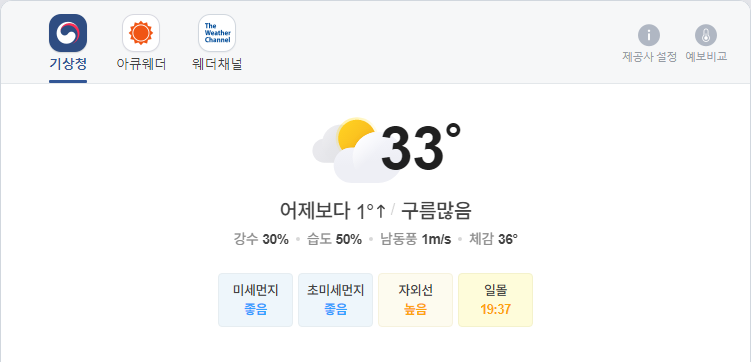
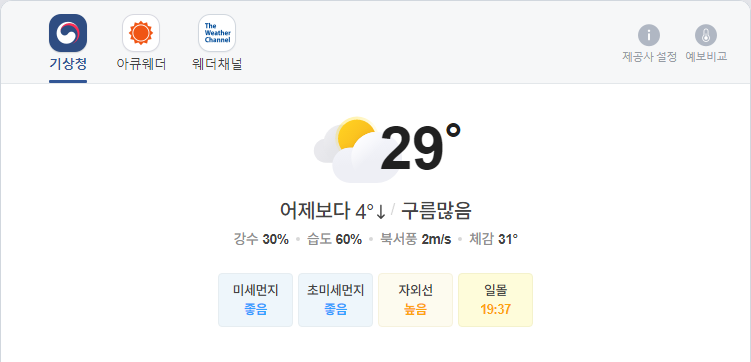
update result

diff --git a/README.md b/README.md
@@ -1,5 +1,5 @@
-##  2021-08-06 12:08:11   금요일 
-##### 날씨   -   어제보다 1° 높아요구름많음  
+##  2021-08-06 16:03:48   금요일 
+##### 날씨   -   어제보다 4° 낮아요구름많음  
 <center><img src="../img/naver_weather_week.png"></center>
 ----
 ----
@@ -16,14 +16,14 @@
 <tr align = "right" > <td>DOW</td><td>35,064.25</td><td>271.58</td><td><font size="3" color="red" >0.78%</font></td><td><font size="3" color="black">0</font></td><td><font size="3" color="black">0</font></td><td>0</td>  </tr>
 <tr align = "right" > <td>NASDAQ</td><td>14,895.12</td><td>114.59</td><td><font size="3" color="red" >0.78%</font></td><td><font size="3" color="black">0</font></td><td><font size="3" color="black">0</font></td><td>0</td>  </tr>
 <tr align = "right" > <td>S&P</td><td>4,429.1</td><td>26.44</td><td><font size="3" color="red" >0.6%</font></td><td><font size="3" color="black">0</font></td><td><font size="3" color="black">0</font></td><td>0</td>  </tr>
-<tr align = "right" > <td>SHANHAI</td><td>3,450.5</td><td>-16.05</td><td><font size="3" color="blue" >-0.46%</font></td><td><font size="3" color="black">0</font></td><td><font size="3" color="black">0</font></td><td>0</td>  </tr>
-<tr align = "right" > <td>INDIA</td><td>54,492.84</td><td>123.07</td><td><font size="3" color="red" >0.23%</font></td><td><font size="3" color="black">0</font></td><td><font size="3" color="black">0</font></td><td>0</td>  </tr>
+<tr align = "right" > <td>SHANHAI</td><td>3,455.83</td><td>-10.72</td><td><font size="3" color="blue" >-0.31%</font></td><td><font size="3" color="black">0</font></td><td><font size="3" color="black">0</font></td><td>0</td>  </tr>
+<tr align = "right" > <td>INDIA</td><td>54,374.33</td><td>-118.51</td><td><font size="3" color="blue" >-0.22%</font></td><td><font size="3" color="black">0</font></td><td><font size="3" color="black">0</font></td><td>0</td>  </tr>
 </table>
 ----
 ##### 시장
 <table border="1" bordercolor="blue" align = "center" >
 <tr align = "right" > <td>Item</td><td>Price</td><td>Diff</td><td>Rate</td><td>Buy</td><td>Sell</td><td>...</td>  </tr>
-<tr align = "right" > <td>USD</td><td>1,143.0</td><td>-0.4</td><td><font size="3" color="blue">-0.03%</font></td><td><font size="3" color="black">1,110</font></td><td><font size="3" color="black">0</font></td><td>0</td>  </tr>
+<tr align = "right" > <td>USD</td><td>1,143.0</td><td>-0.5</td><td><font size="3" color="blue">-0.04%</font></td><td><font size="3" color="black">1,110</font></td><td><font size="3" color="black">0</font></td><td>0</td>  </tr>
 <tr align = "right" > <td>WTI</td><td>69.09</td><td>0.94</td><td><font size="3" color="red">1.37%</font></td><td><font size="3" color="black">29.0</font></td><td><font size="3" color="black">0</font></td><td>0</td>  </tr>
 <tr align = "right" > <td>GOLD</td><td>1,805.0</td><td>-5.4</td><td><font size="3" color="blue">-0.29%</font></td><td><font size="3" color="black">0</font></td><td><font size="3" color="black">0</font></td><td>0</td>  </tr>
 </table>
@@ -31,32 +31,32 @@
 ##### 주가
 <table border="1" bordercolor="blue" align = "center" >
 <tr align = "right" > <td>Item</td><td>Price</td><td>Diff</td><td>Rate</td><td>Purchased</td><td>Sell</td><td>Buy</td>  </tr>
-<tr align = "right" > <td>한국 전력</td><td>25,400</td><td>100</td><td><font size="3" color="red">0.4%</font></td><td>25,720</td><td><font size="3" color="black">27,700</font></td><td><font size="3" color="black">20,700</font></td>  </tr>
-<tr align = "right" > <td>삼성엔지니어.</td><td>23,700</td><td>450</td><td><font size="3" color="red">1.94%</font></td><td>18,935</td><td><font size="3" color="black">20,000</font></td><td><font size="3" color="black">8,000</font></td>  </tr>
-<tr align = "right" > <td>CJ CGV</td><td>30,250</td><td>-150</td><td><font size="3" color="blue">-0.49%</font></td><td>34,895</td><td><font size="3" color="black">36,000</font></td><td><font size="3" color="black">0</font></td>  </tr>
-<tr align = "right" > <td>아모레퍼시픽</td><td>229,500</td><td>-2,500</td><td><font size="3" color="blue">-1.08%</font></td><td>235,350</td><td><font size="3" color="black">240,000</font></td><td><font size="3" color="black">130,000</font></td>  </tr>
-<tr align = "right" > <td>한화</td><td>30,600</td><td>250</td><td><font size="3" color="red">0.82%</font></td><td>25,550</td><td><font size="3" color="black">26,250</font></td><td><font size="3" color="black">26,250</font></td>  </tr>
-<tr align = "right" > <td>NAVER</td><td>443,500</td><td>1,000</td><td><font size="3" color="red">0.23%</font></td><td>147,200</td><td><font size="3" color="black">386,000</font></td><td><font size="3" color="black">286,000</font></td>  </tr>
-<tr align = "right" > <td>LG 화학우</td><td>386,500</td><td>-3,000</td><td><font size="3" color="blue">-0.77%</font></td><td>202,490</td><td><font size="3" color="black">384,000</font></td><td><font size="3" color="black">384,000</font></td>  </tr>
-<tr align = "right" > <td>스튜디오드래.</td><td>91,900</td><td>-700</td><td><font size="3" color="blue">-0.76%</font></td><td>81,243</td><td><font size="3" color="black">85,200</font></td><td><font size="3" color="black">85,200</font></td>  </tr>
+<tr align = "right" > <td>한국 전력</td><td>25,450</td><td>150</td><td><font size="3" color="red">0.59%</font></td><td>25,720</td><td><font size="3" color="black">27,700</font></td><td><font size="3" color="black">20,700</font></td>  </tr>
+<tr align = "right" > <td>삼성엔지니어.</td><td>23,450</td><td>200</td><td><font size="3" color="red">0.86%</font></td><td>18,935</td><td><font size="3" color="black">20,000</font></td><td><font size="3" color="black">8,000</font></td>  </tr>
+<tr align = "right" > <td>CJ CGV</td><td>30,650</td><td>250</td><td><font size="3" color="red">0.82%</font></td><td>34,895</td><td><font size="3" color="black">36,000</font></td><td><font size="3" color="black">0</font></td>  </tr>
+<tr align = "right" > <td>아모레퍼시픽</td><td>228,500</td><td>-3,500</td><td><font size="3" color="blue">-1.51%</font></td><td>235,350</td><td><font size="3" color="black">240,000</font></td><td><font size="3" color="black">130,000</font></td>  </tr>
+<tr align = "right" > <td>한화</td><td>30,550</td><td>200</td><td><font size="3" color="red">0.66%</font></td><td>25,550</td><td><font size="3" color="black">26,250</font></td><td><font size="3" color="black">26,250</font></td>  </tr>
+<tr align = "right" > <td>NAVER</td><td>444,500</td><td>2,000</td><td><font size="3" color="red">0.45%</font></td><td>147,200</td><td><font size="3" color="black">386,000</font></td><td><font size="3" color="black">286,000</font></td>  </tr>
+<tr align = "right" > <td>LG 화학우</td><td>387,500</td><td>-2,000</td><td><font size="3" color="blue">-0.51%</font></td><td>202,490</td><td><font size="3" color="black">384,000</font></td><td><font size="3" color="black">384,000</font></td>  </tr>
+<tr align = "right" > <td>스튜디오드래.</td><td>91,700</td><td>-900</td><td><font size="3" color="blue">-0.97%</font></td><td>81,243</td><td><font size="3" color="black">85,200</font></td><td><font size="3" color="black">85,200</font></td>  </tr>
 <tr align = "right" > <td>QV미국IT</td><td>31,795</td><td>220</td><td><font size="3" color="red">0.7%</font></td><td>0</td><td><font size="3" color="black">30,000</font></td><td><font size="3" color="black">20,000</font></td>  </tr>
-<tr align = "right" > <td>삼성 전자우</td><td>74,800</td><td>-400</td><td><font size="3" color="blue">-0.53%</font></td><td>60,675</td><td><font size="3" color="black">76,000</font></td><td><font size="3" color="black">55,000</font></td>  </tr>
-<tr align = "right" > <td>LS</td><td>71,400</td><td>-100</td><td><font size="3" color="blue">-0.14%</font></td><td>71,900</td><td><font size="3" color="black">82,000</font></td><td><font size="3" color="black">60,000</font></td>  </tr>
+<tr align = "right" > <td>삼성 전자우</td><td>74,900</td><td>-300</td><td><font size="3" color="blue">-0.4%</font></td><td>60,675</td><td><font size="3" color="black">76,000</font></td><td><font size="3" color="black">55,000</font></td>  </tr>
+<tr align = "right" > <td>LS</td><td>71,300</td><td>-200</td><td><font size="3" color="blue">-0.28%</font></td><td>71,900</td><td><font size="3" color="black">82,000</font></td><td><font size="3" color="black">60,000</font></td>  </tr>
 <tr align = "right" > <td>한화에어로스.</td><td>52,300</td><td>-1,200</td><td><font size="3" color="blue">-2.24%</font></td><td>25,700</td><td><font size="3" color="black">30,000</font></td><td><font size="3" color="black">24,000</font></td>  </tr>
 <tr align = "right" > <td>한화시스템.</td><td>17,150</td><td>150</td><td><font size="3" color="red">0.88%</font></td><td>16,875</td><td><font size="3" color="black">30,000</font></td><td><font size="3" color="black">14,000</font></td>  </tr>
-<tr align = "right" > <td>카카오</td><td>146,000</td><td>-3,000</td><td><font size="3" color="blue">-2.01%</font></td><td>405,500</td><td><font size="3" color="black">440,000</font></td><td><font size="3" color="orangered">400,000</font></td>  </tr>
-<tr align = "right" > <td>호텔 신라</td><td>94,500</td><td>600</td><td><font size="3" color="red">0.64%</font></td><td>88,650</td><td><font size="3" color="black">100,000</font></td><td><font size="3" color="black">70,000</font></td>  </tr>
-<tr align = "right" > <td>S-Oil</td><td>98,200</td><td>-700</td><td><font size="3" color="blue">-0.71%</font></td><td>62,842</td><td><font size="3" color="black">100,000</font></td><td><font size="3" color="black">50,000</font></td>  </tr>
-<tr align = "right" > <td>LG전자</td><td>157,500</td><td>-500</td><td><font size="3" color="blue">-0.32%</font></td><td>82,022</td><td><font size="3" color="black">100,000</font></td><td><font size="3" color="black">60,000</font></td>  </tr>
+<tr align = "right" > <td>카카오</td><td>145,500</td><td>-3,500</td><td><font size="3" color="blue">-2.35%</font></td><td>405,500</td><td><font size="3" color="black">440,000</font></td><td><font size="3" color="orangered">400,000</font></td>  </tr>
+<tr align = "right" > <td>호텔 신라</td><td>94,400</td><td>500</td><td><font size="3" color="red">0.53%</font></td><td>88,650</td><td><font size="3" color="black">100,000</font></td><td><font size="3" color="black">70,000</font></td>  </tr>
+<tr align = "right" > <td>S-Oil</td><td>96,900</td><td>-2,000</td><td><font size="3" color="blue">-2.02%</font></td><td>62,842</td><td><font size="3" color="black">100,000</font></td><td><font size="3" color="black">50,000</font></td>  </tr>
+<tr align = "right" > <td>LG전자</td><td>157,000</td><td>-1,000</td><td><font size="3" color="blue">-0.63%</font></td><td>82,022</td><td><font size="3" color="black">100,000</font></td><td><font size="3" color="black">60,000</font></td>  </tr>
 <tr align = "right" > <td>KT&G</td><td>82,200</td><td>-600</td><td><font size="3" color="blue">-0.72%</font></td><td>79,700</td><td><font size="3" color="black">100,000</font></td><td><font size="3" color="black">70,000</font></td>  </tr>
-<tr align = "right" > <td>지역난방공사</td><td>42,400</td><td>50</td><td><font size="3" color="red">0.12%</font></td><td>43,590</td><td><font size="3" color="black">60,000</font></td><td><font size="3" color="black">30,000</font></td>  </tr>
-<tr align = "right" > <td>맥쿼리인프라</td><td>12,250</td><td>0</td><td><font size="3" color="black">0.0%</font></td><td>12,577</td><td><font size="3" color="black">30,000</font></td><td><font size="3" color="black">10,000</font></td>  </tr>
-<tr align = "right" > <td>KOEDX은행</td><td>7,345</td><td>5</td><td><font size="3" color="red">0.07%</font></td><td>7,578</td><td><font size="3" color="black">8,825</font></td><td><font size="3" color="black">6,225</font></td>  </tr>
-<tr align = "right" > <td>글로벌럭셔리</td><td>18,435</td><td>35</td><td><font size="3" color="red">0.19%</font></td><td>16,302</td><td><font size="3" color="black">20,000</font></td><td><font size="3" color="black">10,000</font></td>  </tr>
+<tr align = "right" > <td>지역난방공사</td><td>42,600</td><td>250</td><td><font size="3" color="red">0.59%</font></td><td>43,590</td><td><font size="3" color="black">60,000</font></td><td><font size="3" color="black">30,000</font></td>  </tr>
+<tr align = "right" > <td>맥쿼리인프라</td><td>12,300</td><td>50</td><td><font size="3" color="red">0.41%</font></td><td>12,577</td><td><font size="3" color="black">30,000</font></td><td><font size="3" color="black">10,000</font></td>  </tr>
+<tr align = "right" > <td>KOEDX은행</td><td>7,330</td><td>-10</td><td><font size="3" color="blue">-0.14%</font></td><td>7,578</td><td><font size="3" color="black">8,825</font></td><td><font size="3" color="black">6,225</font></td>  </tr>
+<tr align = "right" > <td>글로벌럭셔리</td><td>18,410</td><td>10</td><td><font size="3" color="red">0.05%</font></td><td>16,302</td><td><font size="3" color="black">20,000</font></td><td><font size="3" color="black">10,000</font></td>  </tr>
 <tr align = "right" > <td>TIRGER200건설</td><td>3,335</td><td>0</td><td><font size="3" color="black">0.0%</font></td><td>3,440</td><td><font size="3" color="black">4,000</font></td><td><font size="3" color="black">3,000</font></td>  </tr>
-<tr align = "right" > <td>KODEXK미래차</td><td>10,950</td><td>5</td><td><font size="3" color="red">0.05%</font></td><td>10,955</td><td><font size="3" color="black">20,000</font></td><td><font size="3" color="black">10,000</font></td>  </tr>
+<tr align = "right" > <td>KODEXK미래차</td><td>10,945</td><td>0</td><td><font size="3" color="black">0.0%</font></td><td>10,955</td><td><font size="3" color="black">20,000</font></td><td><font size="3" color="black">10,000</font></td>  </tr>
 <tr align = "right" > <td>TIGER글로벌BBIG</td><td>11,770</td><td>110</td><td><font size="3" color="red">0.94%</font></td><td>11,020</td><td><font size="3" color="black">20,000</font></td><td><font size="3" color="black">10,000</font></td>  </tr>
-<tr align = "right" > <td>TIGER퓨처모빌리티</td><td>11,110</td><td>0</td><td><font size="3" color="black">0.0%</font></td><td>10,695</td><td><font size="3" color="black">20,000</font></td><td><font size="3" color="black">10,000</font></td>  </tr>
-<tr align = "right" > <td>한국금융지주</td><td>96,100</td><td>-1,300</td><td><font size="3" color="blue">-1.33%</font></td><td>0</td><td><font size="3" color="black">82,000</font></td><td><font size="3" color="black">60,000</font></td>  </tr>
+<tr align = "right" > <td>TIGER퓨처모빌리티</td><td>11,115</td><td>5</td><td><font size="3" color="red">0.05%</font></td><td>10,695</td><td><font size="3" color="black">20,000</font></td><td><font size="3" color="black">10,000</font></td>  </tr>
+<tr align = "right" > <td>한국금융지주</td><td>96,800</td><td>-600</td><td><font size="3" color="blue">-0.62%</font></td><td>0</td><td><font size="3" color="black">82,000</font></td><td><font size="3" color="black">60,000</font></td>  </tr>
 </table>
 ----
